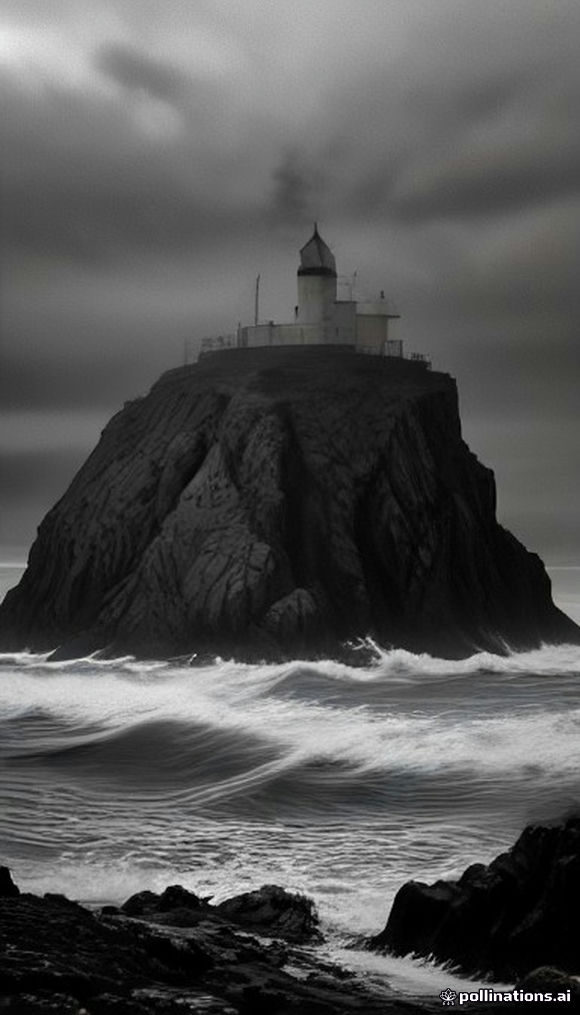
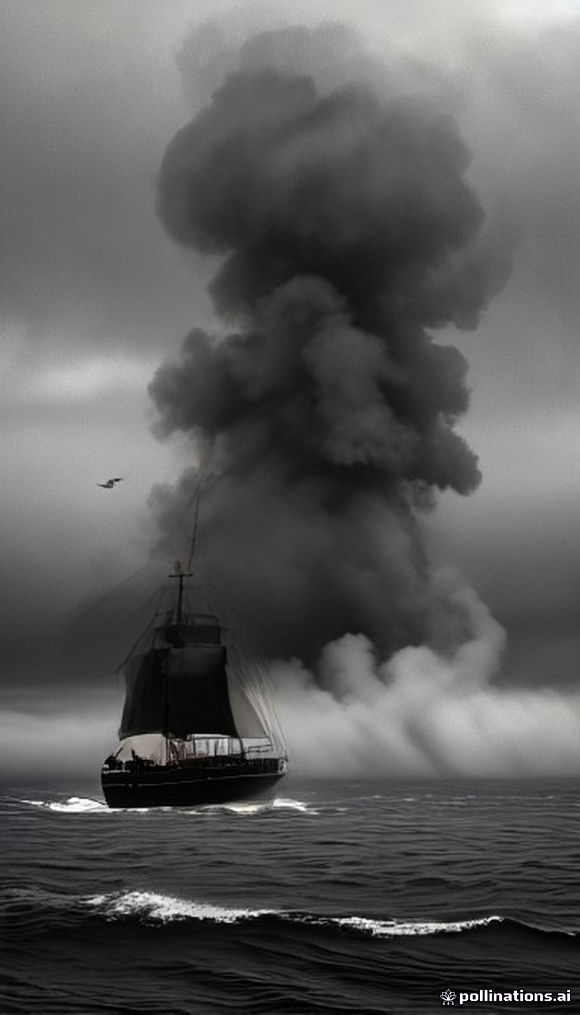
WIP: all plates generated, faces placed on character plates
Claude-Session: https://claude.ai/code/session_01NCEefedA4QREXE3ZPdUHuM

diff --git a/flannan/gen_images.py b/flannan/gen_images.py
@@ -12,17 +12,17 @@ SHOTS = {
     "lighthouse_storm": "a tall white stone lighthouse on a black rocky cliff at night during a violent storm, dark sky, rain, waves crashing, lantern dark, dramatic",
     "map": "antique vintage paper sea chart of the west coast of Scotland and the Outer Hebrides islands, aged parchment, ink coastlines, compass rose, top-down photo",
     "ship_night": "a 1900 steamship at sea at night, sailors standing on the deck at the railing looking toward a distant dark island, one sailor in the foreground facing the camera with a worried face, wool coat and cap, moody",
-    "lantern_dark": "close up of the top of an old stone lighthouse, glass lantern room completely dark and unlit at night, storm clouds",
+    "lantern_dark": "close up of the top of an old abandoned stone lighthouse at night, black unlit glass lantern room with no light at all, pitch dark windows, storm clouds",
     "storm_waves": "enormous storm waves crashing over a small rocky island with a white lighthouse in the North Atlantic, spray, dark grey sky, long exposure",
-    "boat_arrives": "a small black 1900 steamship approaching the rocky landing of a steep remote island with a lighthouse on top, grey sea, overcast, mist",
+    "boat_arrives": "a small black 1900 steamship with one tall funnel and smoke in the foreground, sailing on a grey sea toward a steep remote island with a lighthouse, overcast, mist",
     "landing": "empty stone landing jetty and steep stone steps carved up a cliff on a remote island, a bare empty flagpole at the top with no flag, nobody there, grey overcast, eerie",
     "climb": "an adult man, lighthouse keeper in 1900 with a dark wool coat and peaked cap, climbing steep stone steps up a cliff toward a lighthouse, seen from the front, facing the camera, full body, wind",
-    "door": "an adult man, 1900 lighthouse keeper in a dark wool coat and cap, standing facing the camera in front of the closed wooden green door of a whitewashed stone lighthouse cottage, closed iron gate, overcast",
+    "door": "an adult man in a dark wool coat and peaked cap standing facing the camera beside a firmly shut closed green wooden door of a whitewashed stone cottage, the door is closed, a closed black iron gate in front, overcast",
     "beds": "interior of a small 1900 stone lighthouse cottage bedroom with three empty narrow iron beds with rumpled grey wool blankets, nobody, dim window light, dusty",
     "clock": "close up of an old wooden wall clock with a white face and black roman numerals hanging on a whitewashed stone wall, 1900, dim light",
     "fireplace": "a cold dead stone fireplace with grey ashes and no fire in an old 1900 cottage kitchen, iron kettle, frost, dim cold blue light",
     "shocked": "an adult man, 1900 lighthouse keeper in dark navy uniform and peaked cap, standing in a dark stone cottage interior, waist up, facing the camera, shocked, dim lantern light",
-    "coats": "a row of three iron coat hooks on a whitewashed wooden wall, only one yellow oilskin raincoat hanging on the right hook, the other two hooks empty, 1900 interior, dim light",
+    "coats": "a single yellow oilskin raincoat hanging alone on one iron hook on a bare whitewashed wooden wall, two other empty iron hooks beside it with nothing on them, minimalist, 1900 interior, dim light",
     "running": "an adult man in a white shirt with no coat running out into a violent night storm on a rocky island, heavy rain, lighthouse cottage door open behind him, full body, motion",
     "railings": "bent and twisted iron railings on a high rocky cliff edge above a stormy sea, damaged by waves, overcast, grey",
     "investigators": "three adult men, Scottish officials in 1901 wearing long black overcoats and bowler hats, standing side by side in a row with arms crossed facing the camera, waist up, in front of a lighthouse on a rocky island, overcast",

diff --git a/flannan/render.py b/flannan/render.py
@@ -88,12 +88,12 @@ SCENES = [
     (3.7, "keepers3", [(3.7, 1.1, 1.18, .5, .4)], ["vanish"]),
     (5.7, "lighthouse_storm", [(5.7, 1.0, 1.1, .5, .45), (7.05, 1.12, 1.18, .5, .4)], ["rain", "1900"]),
     (7.95, "map", [(7.95, 1.0, 1.1, .45, .5), (10.0, 1.25, 1.3, .5, .45)], []),
-    (11.2, "ship_night", [(11.2, 1.0, 1.06, .5, .5), (12.6, 1.35, 1.4, .5, .4)], []),
+    (11.2, "ship_night", [(11.2, 1.0, 1.06, .5, .5), (12.6, 1.45, 1.5, .55, .3)], []),
     (14.2, "lantern_dark", [(14.2, 1.0, 1.2, .5, .4)], ["darken"]),
     (16.45, "storm_waves", [(16.45, 1.0, 1.08, .5, .5), (18.7, 1.2, 1.26, .5, .45)], ["rain_heavy", "lightning"]),
-    (20.15, "boat_arrives", [(20.15, 1.0, 1.1, .5, .55)], []),
-    (22.15, "landing", [(22.15, 1.0, 1.05, .5, .5), (23.55, 1.4, 1.45, .5, .3), (24.35, 1.2, 1.26, .5, .45), (25.25, 1.0, 1.03, .5, .5)], []),
-    (26.65, "climb", [(26.65, 1.0, 1.12, .5, .45)], []),
+    (20.15, "boat_arrives", [(20.15, 1.35, 1.5, .35, .72)], []),
+    (22.15, "landing", [(22.15, 1.0, 1.05, .5, .5), (23.55, 1.45, 1.5, .75, .2), (24.35, 1.2, 1.26, .5, .45), (25.25, 1.0, 1.03, .5, .5)], []),
+    (26.65, "climb", [(26.65, 1.1, 1.3, .4, .45)], []),
     (28.55, "door", [(28.55, 1.0, 1.05, .5, .5), (29.35, 1.3, 1.36, .5, .45)], []),
     (30.95, "beds", [(30.95, 1.0, 1.08, .5, .55)], []),
     (32.55, "clock", [(32.55, 1.0, 1.08, .5, .45), (33.15, 1.25, 1.28, .5, .45)], []),
@@ -102,7 +102,7 @@ SCENES = [
     (38.25, "coats", [(38.25, 1.0, 1.05, .5, .5), (40.65, 1.3, 1.4, .7, .45)], []),
     (43.25, "running", [(43.25, 1.0, 1.08, .5, .5), (45.55, 1.2, 1.28, .5, .4)], ["rain_heavy", "lightning"]),
     (47.75, "railings", [(47.75, 1.0, 1.06, .5, .5), (48.85, 1.3, 1.35, .45, .45), (50.5, 1.15, 1.2, .55, .5), (51.45, 1.0, 1.05, .5, .6)], []),
-    (54.05, "investigators", [(54.05, 1.0, 1.08, .5, .4)], []),
+    (54.05, "investigators", [(54.05, 1.15, 1.25, .5, .45)], []),
     (55.05, "giant_wave", [(55.05, 1.0, 1.15, .5, .5)], ["rain"]),
     (55.95, "empty_island", [(55.95, 1.0, 1.1, .5, .5)], ["fade_end"]),
 ]
